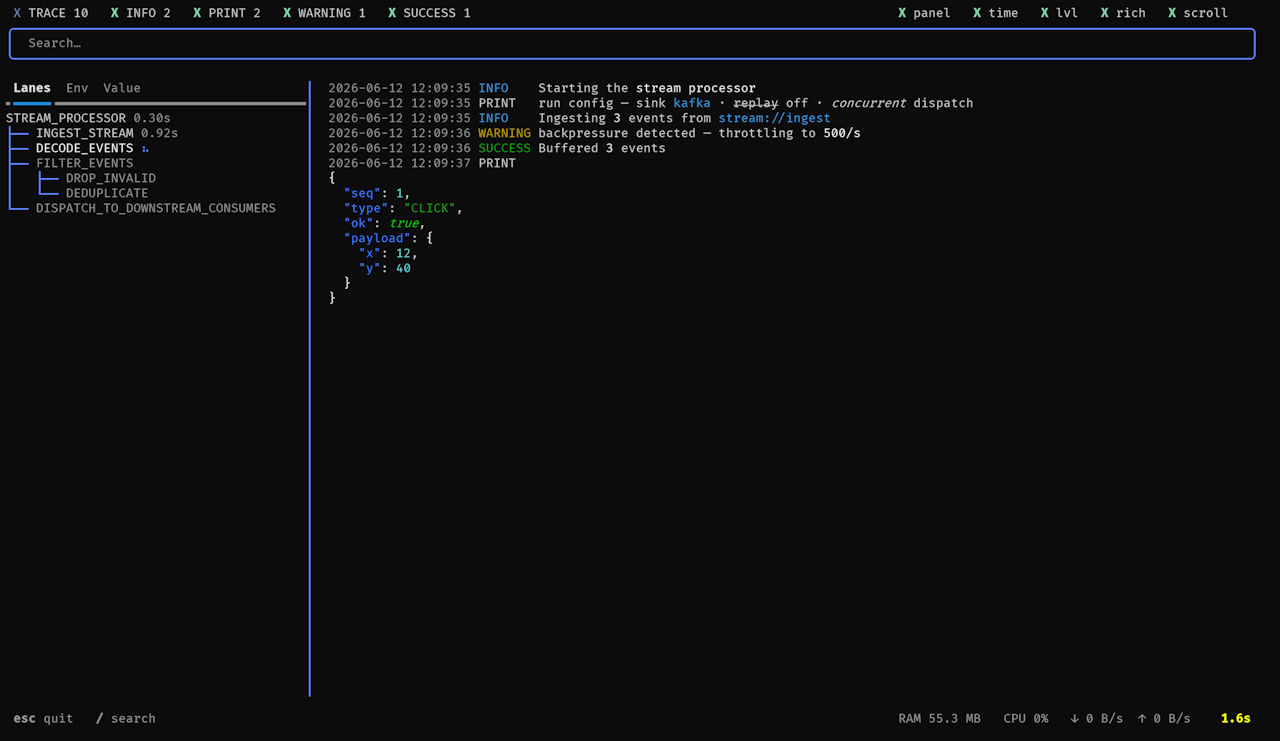
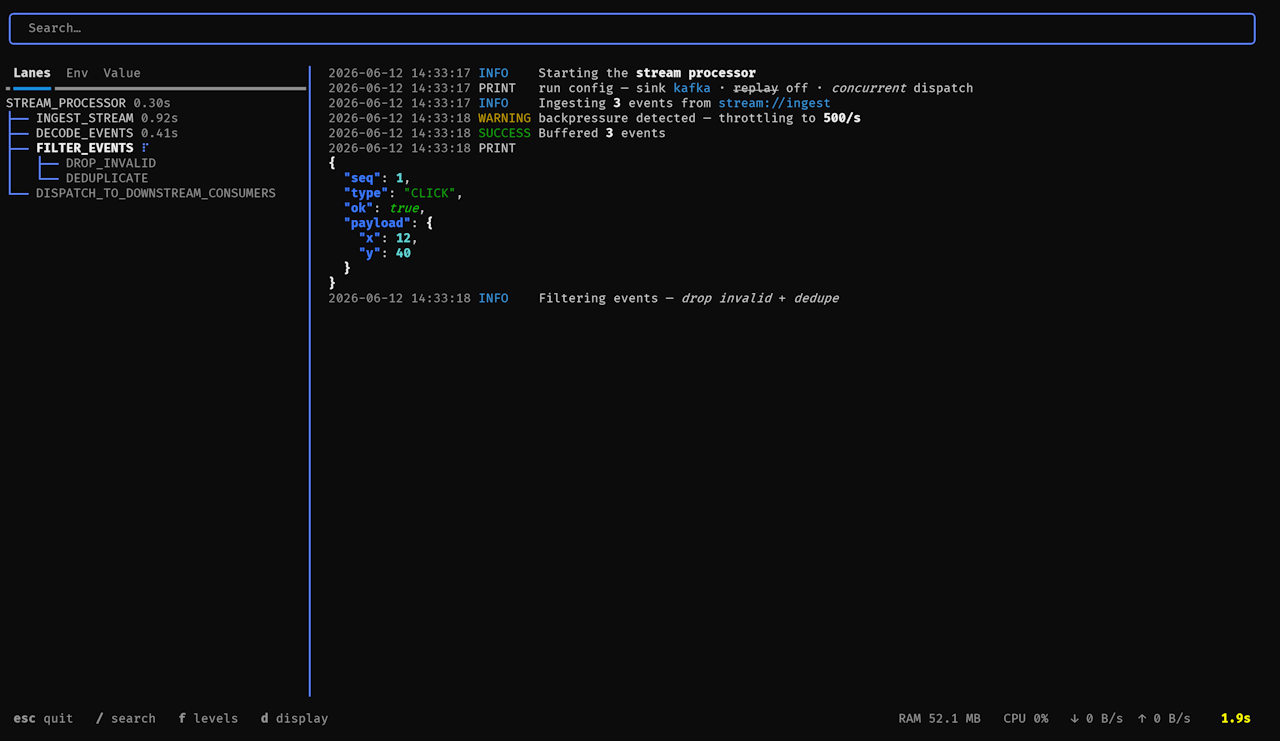
Increment version to 2.2.6; enhance search input visibility and functionality in UI

diff --git a/src/carabao/cli/cmd_dev/ui.py b/src/carabao/cli/cmd_dev/ui.py
@@ -324,8 +324,10 @@ class UI(App):
     # ---- layout ----------------------------------------------------------
 
     def compose(self):
-        # Search spans the top; display/level filters live in the `f` modal.
+        # Search stays hidden until `/` is pressed or it has a query
+        # (see _update_search_visibility).
         self._search_input = Input(placeholder="Search…", id="search")
+        self._search_input.display = False
 
         yield self._search_input
 
@@ -1124,11 +1126,18 @@ class UI(App):
         self._search = event.value
 
         self._refilter()
+        self._update_search_visibility()
 
     @on(Input.Submitted, "#search")
     def _on_search_submit(self):
         # Enter in the search box defocuses (doesn't quit the app).
         self.set_focus(None)
+        self._update_search_visibility()
+
+    def _update_search_visibility(self):
+        # Visible only while focused or holding a query; hidden otherwise.
+        focused = self.focused is self._search_input
+        self._search_input.display = focused or bool(self._search)
 
     def _sync_hotkeys(self):
         # Kept for callers; the bottom bar tracks paused/filter state.
@@ -1189,7 +1198,9 @@ class UI(App):
             events.resume_all()
 
     def action_focus_search(self):
-        self.query_one("#search", Input).focus()
+        # Reveal then focus.
+        self._search_input.display = True
+        self._search_input.focus()
 
     def action_filter_bar(self, mode: str):
         # Toggle a filter strip in the bottom bar (press again to go back).
@@ -1251,6 +1262,7 @@ class UI(App):
         # Esc while typing in search just defocuses — doesn't quit.
         if self.focused is self._search_input:
             self.set_focus(None)
+            self._update_search_visibility()
 
             return
 